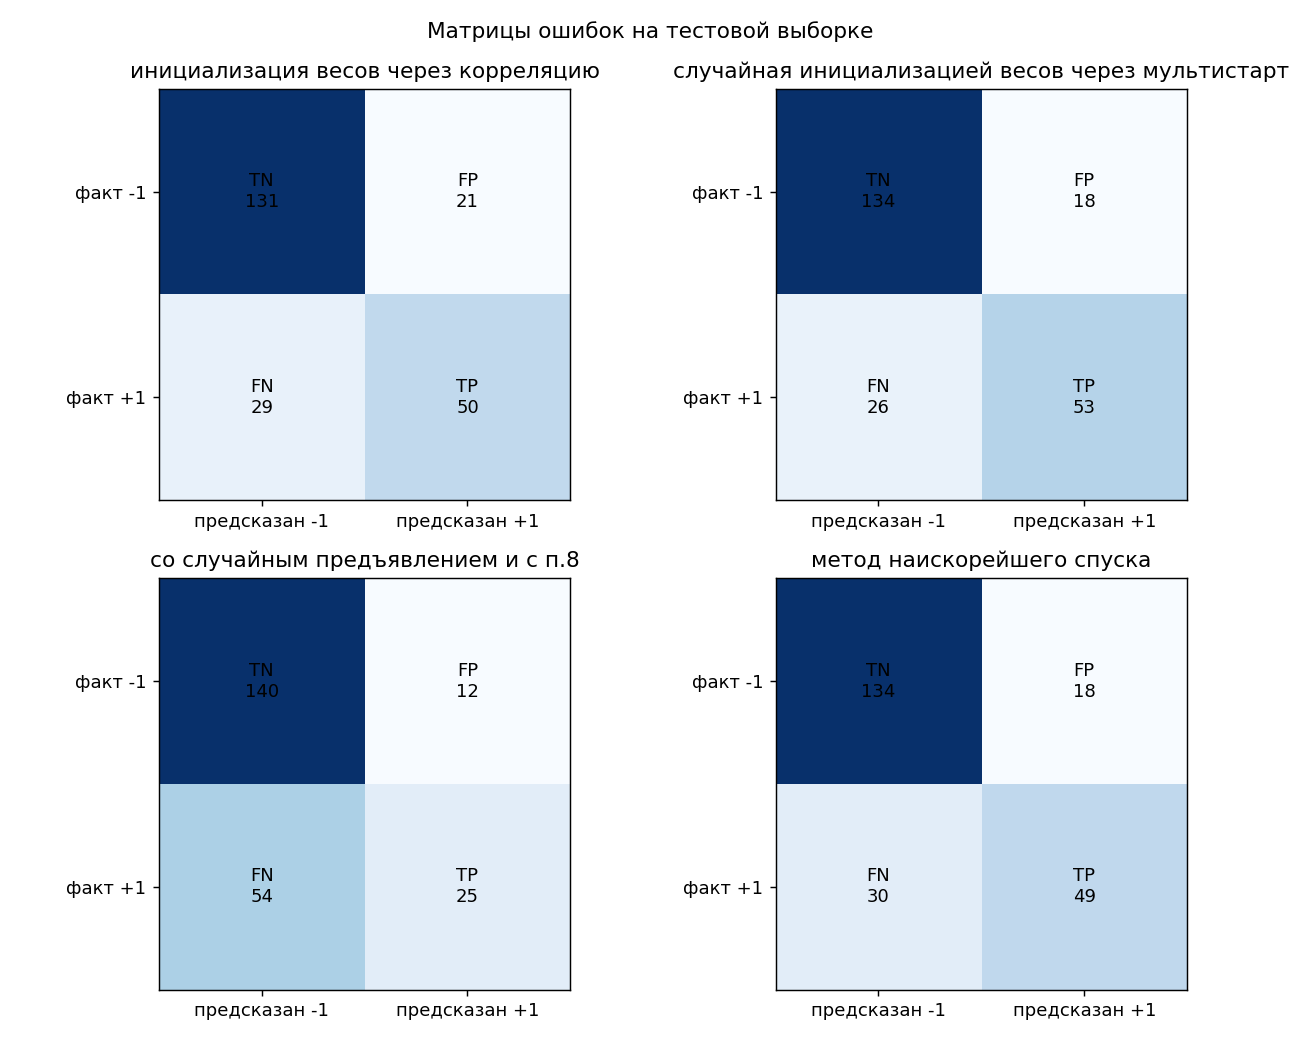
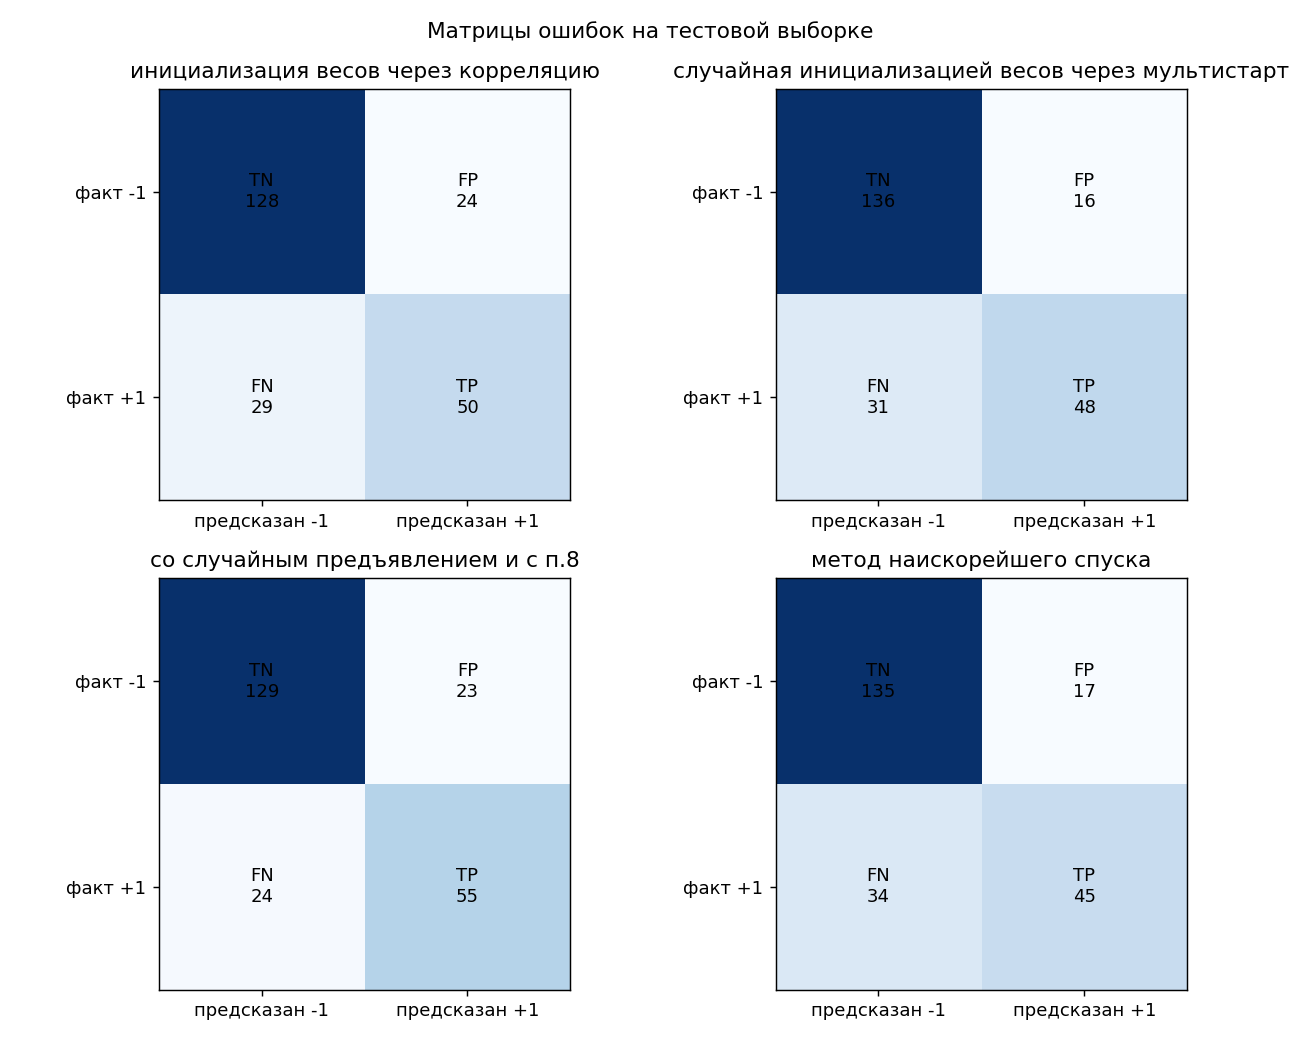
1. Изменение функции лосса на log2
2. Немного переписал загрузку датасета

Changed region(s): [[0.1231, 0.7385, 0.4615, 0.9538], [0.3385, 0.6462, 0.3692, 0.6769]]

diff --git a/students/churyumov-bv/lab1/source/main.py b/students/churyumov-bv/lab1/source/main.py
@@ -17,15 +17,12 @@
 
 """
 
-import io
-import json
 import os
-import zipfile
 import numpy as np
 import pandas as pd
-import requests
 import matplotlib.pyplot as plt
 from matplotlib.patches import Patch
+from sklearn.datasets import fetch_openml
 from sklearn.model_selection import train_test_split
 from sklearn.metrics import roc_curve, auc
 
@@ -35,53 +32,21 @@ rng = np.random.default_rng(RANDOM_STATE)
 OUTPUT_DIR = os.path.join(os.path.dirname(os.path.abspath(__file__)), "../output")
 os.makedirs(OUTPUT_DIR, exist_ok=True)
 
-KAGGLE_DATASET = "uciml/pima-indians-diabetes-database"
-KAGGLE_FILE = "diabetes.csv"
-DATA_DIR = os.path.normpath(os.path.join(os.path.dirname(os.path.abspath(__file__)), ".."))
-DATA_PATH = os.path.join(DATA_DIR, KAGGLE_FILE)
-
-
-def _kaggle_auth():
-    user = os.environ.get("KAGGLE_USERNAME")
-    key = os.environ.get("KAGGLE_KEY")
-    if user and key:
-        return user, key
-    with open(os.path.expanduser("~/.kaggle/kaggle.json")) as f:
-        creds = json.load(f)
-    return creds["username"], creds["key"]
-
-
-def download_dataset():
-    url = f"https://www.kaggle.com/api/v1/datasets/download/{KAGGLE_DATASET}"
-    resp = requests.get(url, auth=_kaggle_auth())
-    resp.raise_for_status()
-    with zipfile.ZipFile(io.BytesIO(resp.content)) as zf:
-        zf.extract(KAGGLE_FILE, DATA_DIR)
-
-
 # выбрать датасет для классификации, например на [kaggle]
 def load_data() -> pd.DataFrame:
-    if not os.path.exists(DATA_PATH):
-        download_dataset()
-
-    df = pd.read_csv(DATA_PATH)
-    df.columns = [c.strip().lower() for c in df.columns]
-    return df
+    return fetch_openml(data_id=37, as_frame=True, parser="auto", n_retries=5).frame
 
 
 def prepare_data(df: pd.DataFrame, test_size: float = 0.3):
     df = df.copy()
-
-    zeros = ["glucose", "bloodpressure", "skinthickness", "insulin", "bmi"]
+    zeros = ["plas", "pres", "skin", "insu", "mass"]
     for col in zeros:
         df[col] = df[col].replace(0, np.nan)
         df[col] = df[col].fillna(df[col].median())
 
-    feature_cols = ["pregnancies", "glucose", "bloodpressure", "skinthickness",
-                     "insulin", "bmi", "diabetespedigreefunction", "age"]
+    feature_cols = ["preg", "plas", "pres", "skin", "insu", "mass", "pedi", "age"]
     X = df[feature_cols].to_numpy(dtype=float)
-    y = df["outcome"].to_numpy(dtype=float)
-    y = np.where(y > 0, 1.0, -1.0)  # {0,1} -> {-1,+1}
+    y = np.where(df["class"] == "tested_positive", 1.0, -1.0)
 
     mu, sigma = X.mean(axis=0), X.std(axis=0)
     sigma[sigma == 0] = 1.0
@@ -148,19 +113,19 @@ def _stable_sigmoid(z: np.ndarray) -> np.ndarray:
 
 
 def loss(M: np.ndarray) -> np.ndarray:
-    return np.log1p(np.exp(-np.abs(M))) + np.maximum(-M, 0)
+    return (np.log1p(np.exp(-np.abs(M))) + np.maximum(-M, 0)) / np.log(2)
 
 
 def loss_derivative(M: np.ndarray) -> np.ndarray:
-    return -_stable_sigmoid(-M)
+    return -_stable_sigmoid(-M) / np.log(2)
 
 
 def gradient(w: np.ndarray, X: np.ndarray, y: np.ndarray, l2: float = 0.0) -> np.ndarray:
     M = margin(w, X, y)
-    dL_dM = loss_derivative(M)          # (n,)
-    grad_per_obj = X * (dL_dM * y)[:, None]  # (n, d), dM/dw = y_i * x_i
+    dL_dM = loss_derivative(M)
+    grad_per_obj = X * (dL_dM * y)[:, None]
     grad = grad_per_obj.mean(axis=0)
-    grad[1:] += l2 * w[1:]              # bias (w[0]) не регуляризуем
+    grad[1:] += l2 * w[1:]
     return grad
 
 # 4. реализовать рекуррентную оценку функционала качества;
@@ -188,7 +153,7 @@ def margin_based_sampling_probs(w: np.ndarray, X: np.ndarray, y: np.ndarray,
 def sgd_momentum(X, y, w0, n_iter=4000, eta=0.05, gamma=0.9, l2=0.01,
                   lam_Q=0.01, sampling="uniform"):
     w = w0.copy()
-    v = np.zeros_like(w)  # "инерция" (momentum)
+    v = np.zeros_like(w)
     Q = init_Q(w, X, y)
     Q_history = [Q]
     n = X.shape[0]
@@ -197,7 +162,6 @@ def sgd_momentum(X, y, w0, n_iter=4000, eta=0.05, gamma=0.9, l2=0.01,
         if sampling == "uniform":
             i = rng.integers(0, n)
         elif sampling == "margin_based":
-            # пересчитывать веса на каждом шаге дорого, обновляем раз в K шагов
             if t % 50 == 0:
                 probs = margin_based_sampling_probs(w, X, y)
             i = rng.choice(n, p=probs)
@@ -246,7 +210,7 @@ def steepest_descent(X, y, w0, n_iter=200, l2=0.01, eta_max=5.0):
 # 9.1 обучить с инициализацией весов через корреляцию;
 def correlation_init(X, y):
     w = np.zeros(X.shape[1])
-    for j in range(1, X.shape[1]):  # пропускаем bias-столбец (j=0)
+    for j in range(1, X.shape[1]):
         xj = X[:, j]
         denom = xj @ xj
         w[j] = (xj @ y) / denom if denom > 0 else 0.0
@@ -255,8 +219,6 @@ def correlation_init(X, y):
 
 # 9.2 обучить со случайной инициализацией весов через мультистарт;
 def multistart(X, y, n_starts, train_fn, **train_kwargs):
-    """Запускаем обучение n_starts раз со случайными начальными весами,
-    выбираем лучший результат по итоговому Q на обучающей выборке."""
     best_w, best_Q, best_hist = None, np.inf, None
     d = X.shape[1]
     for s in range(n_starts):
@@ -327,7 +289,7 @@ def plot_roc_curves(models: dict, X: np.ndarray, y: np.ndarray, title: str, path
 # 11. сравнить лучшую реализацию с эталонной;
 def reference_model(X_train, y_train, X_test, y_test, l2):
     from sklearn.linear_model import SGDClassifier
-    clf = SGDClassifier(loss="log_loss", penalty="l2", alpha=l2,
+    clf = SGDClassifier(loss="log_loss", penalty="l2", alpha=l2 * np.log(2),
                          max_iter=2000, random_state=RANDOM_STATE)
     clf.fit(X_train[:, 1:], y_train)
     y_pred = clf.predict(X_test[:, 1:])
@@ -353,7 +315,7 @@ if __name__ == "__main__":
     w_rand = rng.normal(0, 0.1, size=d)
     plot_margins(
         margin(w_rand, X_train, y_train), 
-        "Отступы со случайными весами (до обучения)",
+        "Отступы со случайными весами до обучения",
         os.path.join(OUTPUT_DIR, "margins_before.png")
     )
 

diff --git a/students/churyumov-bv/lab1/README.md b/students/churyumov-bv/lab1/README.md
@@ -1,37 +1,35 @@
 ## 1. Датасет
 
+Pima Indians Diabetes (768 объектов, 8 числовых признаков, 2 класса). Загружается из OpenML (`data_id=37`) через `sklearn.datasets.fetch_openml`, без Kaggle API; sklearn кэширует датасет локально. Колонки используются под именами OpenML: `preg`, `plas`, `pres`, `skin`, `insu`, `mass`, `pedi`, `age`, метка — `class`.
+
+В признаках `plas`, `pres`, `skin`, `insu`, `mass` нулевое значение означает пропуск: оно заменяется медианой по столбцу. Признаки стандартизуются, метки переводятся в {-1, +1}, выборка делится на обучающую и тестовую (70/30, без перемешивания), к матрицам добавляется столбец смещения.
+
 ```python
-KAGGLE_DATASET = "uciml/pima-indians-diabetes-database"
-KAGGLE_FILE = "diabetes.csv"
-DATA_DIR = os.path.normpath(os.path.join(os.path.dirname(os.path.abspath(__file__)), ".."))
-DATA_PATH = os.path.join(DATA_DIR, KAGGLE_FILE)
-
-
-def _kaggle_auth():
-    user = os.environ.get("KAGGLE_USERNAME")
-    key = os.environ.get("KAGGLE_KEY")
-    if user and key:
-        return user, key
-    with open(os.path.expanduser("~/.kaggle/kaggle.json")) as f:
-        creds = json.load(f)
-    return creds["username"], creds["key"]
-
-
-def download_dataset():
-    url = f"https://www.kaggle.com/api/v1/datasets/download/{KAGGLE_DATASET}"
-    resp = requests.get(url, auth=_kaggle_auth())
-    resp.raise_for_status()
-    with zipfile.ZipFile(io.BytesIO(resp.content)) as zf:
-        zf.extract(KAGGLE_FILE, DATA_DIR)
-
-
 def load_data() -> pd.DataFrame:
-    if not os.path.exists(DATA_PATH):
-        download_dataset()
+    return fetch_openml(data_id=37, as_frame=True, parser="auto", n_retries=5).frame
 
-    df = pd.read_csv(DATA_PATH)
-    df.columns = [c.strip().lower() for c in df.columns]
-    return df
+def prepare_data(df: pd.DataFrame, test_size: float = 0.3):
+    df = df.copy()
+    zeros = ["plas", "pres", "skin", "insu", "mass"]
+    for col in zeros:
+        df[col] = df[col].replace(0, np.nan)
+        df[col] = df[col].fillna(df[col].median())
+
+    feature_cols = ["preg", "plas", "pres", "skin", "insu", "mass", "pedi", "age"]
+    X = df[feature_cols].to_numpy(dtype=float)
+    y = np.where(df["class"] == "tested_positive", 1.0, -1.0)
+
+    mu, sigma = X.mean(axis=0), X.std(axis=0)
+    sigma[sigma == 0] = 1.0
+    X = (X - mu) / sigma
+    X_train, X_test, y_train, y_test = train_test_split(
+        X, y, test_size=test_size, shuffle=False
+    )
+
+    def add_bias(X):
+        return np.hstack([np.ones((X.shape[0], 1)), X])
+
+    return add_bias(X_train), y_train, add_bias(X_test), y_test, feature_cols
 ```
 
 ## 2. Отступ объекта
@@ -82,6 +80,8 @@ def plot_margins(M: np.ndarray, title: str, path: str):
 
 ## 3. Градиент функции потерь
 
+Функция потерь — логистическая, нормированная на ln 2: L(M) = log₂(1 + e^(−M)). Она мажорирует пороговую функцию потерь [M < 0].
+
 ```python
 def _stable_sigmoid(z: np.ndarray) -> np.ndarray:
     out = np.empty_like(z)
@@ -91,14 +91,11 @@ def _stable_sigmoid(z: np.ndarray) -> np.ndarray:
     out[~pos] = ez / (1.0 + ez)
     return out
 
-
 def loss(M: np.ndarray) -> np.ndarray:
-    return np.log1p(np.exp(-np.abs(M))) + np.maximum(-M, 0)
-
+    return (np.log1p(np.exp(-np.abs(M))) + np.maximum(-M, 0)) / np.log(2)
 
 def loss_derivative(M: np.ndarray) -> np.ndarray:
-    return -_stable_sigmoid(-M)
-
+    return -_stable_sigmoid(-M) / np.log(2)
 
 def gradient(w: np.ndarray, X: np.ndarray, y: np.ndarray, l2: float = 0.0) -> np.ndarray:
     M = margin(w, X, y)
@@ -113,13 +110,12 @@ def gradient(w: np.ndarray, X: np.ndarray, y: np.ndarray, l2: float = 0.0) -> np
 
 ```python
 def init_Q(w: np.ndarray, X: np.ndarray, y: np.ndarray) -> float:
+
     M = margin(w, X, y)
     return float(loss(M).mean())
 
-
 def update_Q(Q_prev: float, loss_i: float, lam: float) -> float:
     return lam * loss_i + (1 - lam) * Q_prev
-
 
 def full_Q(w, X, y, l2):
     M = margin(w, X, y)
@@ -162,6 +158,8 @@ def sgd_momentum(X, y, w0, n_iter=4000, eta=0.05, gamma=0.9, l2=0.01,
 
 ## 6. L2-регуляризация
 
+Смещение `w[0]` не регуляризуется.
+
 ```python
 grad[1:] += l2 * w[1:]
 ```
@@ -182,7 +180,6 @@ def backtracking_line_search(f, f0, g, eta0=5.0, shrink=0.5, c1=1e-4, max_steps=
         eta *= shrink
     return eta
 
-
 def steepest_descent(X, y, w0, n_iter=200, l2=0.01, eta_max=5.0):
     w = w0.copy()
     Q_history = [full_Q(w, X, y, l2)]
@@ -198,6 +195,14 @@ def steepest_descent(X, y, w0, n_iter=200, l2=0.01, eta_max=5.0):
         Q_history.append(full_Q(w, X, y, l2))
     return w, np.array(Q_history)
 ```
+
+```python
+w_steepest, hist_steep = steepest_descent(X_train, y_train, w0_rand, l2=l2)
+```
+
+| train | test |
+|---|---|
+| ![](output/margins_train_метод_наискорейшего_спуска.png) | ![](output/margins_test_метод_наискорейшего_спуска.png) |
 
 ## 8. Предъявление объектов по модулю отступа
 
@@ -268,13 +273,6 @@ w_margin_based, hist_mb = sgd_momentum(X_train, y_train, w0_rand, l2=l2, samplin
 
 ### Кривые обучения
 
-```python
-plt.plot(hist_corr, label="инициализация весов через корреляцию")
-plt.plot(hist_mb, label="со случайным предъявлением и с п.8")
-plt.plot(hist_steep, label="метод наискорейшего спуска")
-plt.title("Кривые обучения")
-```
-
 ![](output/convergence.png)
 
 ## 10. Оценка качества классификации
@@ -298,6 +296,26 @@ def evaluate(w, X, y):
 ```
 
 ```python
+def plot_confusion_matrices(reports, path):
+    fig, axes = plt.subplots(2, 2, figsize=(10, 8))
+    labels = ["TN", "FP", "FN", "TP"]
+
+    for ax, (name, metrics) in zip(axes.flat, reports.items()):
+        cm = metrics["confusion_matrix"]
+        ax.imshow(cm, cmap="Blues")
+        ax.set_title(name)
+        ax.set_xticks([0, 1], ["предсказан -1", "предсказан +1"])
+        ax.set_yticks([0, 1], ["факт -1", "факт +1"])
+        for row in range(2):
+            for col in range(2):
+                ax.text(col, row, f"{labels[row * 2 + col]}\n{cm[row, col]}",
+                        ha="center", va="center", color="black")
+
+    fig.suptitle("Матрицы ошибок на тестовой выборке")
+    fig.tight_layout()
+    fig.savefig(path, dpi=130)
+    plt.close(fig)
+
 def plot_roc_curves(models: dict, X: np.ndarray, y: np.ndarray, title: str, path: str):
     plt.figure(figsize=(6.5, 6))
     for name, w in models.items():
@@ -321,19 +339,23 @@ def plot_roc_curves(models: dict, X: np.ndarray, y: np.ndarray, title: str, path
 |---|---|
 | ![](output/roc_curves_train.png) | ![](output/roc_curves_test.png) |
 
+Метрики на тестовой выборке:
+
 | method | accuracy | precision | recall | f1 |
 |---|---|---|---|---|
-| инициализация весов через корреляцию | 0.7835 | 0.7042 | 0.6329 | 0.6667 |
-| случайная инициализацией весов через мультистарт | 0.8095 | 0.7465 | 0.6709 | 0.7067 |
-| со случайным предъявлением и с п.8 | 0.7143 | 0.6757 | 0.3165 | 0.4310 |
-| метод наискорейшего спуска | 0.7922 | 0.7313 | 0.6203 | 0.6712 |
+| инициализация весов через корреляцию | 0.7706 | 0.6757 | 0.6329 | 0.6536 |
+| случайная инициализацией весов через мультистарт | 0.7965 | 0.7500 | 0.6076 | 0.6713 |
+| со случайным предъявлением и с п.8 | 0.7965 | 0.7051 | 0.6962 | 0.7006 |
+| метод наискорейшего спуска | 0.7792 | 0.7258 | 0.5696 | 0.6383 |
 
 ## 11. Сравнение с эталонной реализацией
+
+Эталон — `sklearn.linear_model.SGDClassifier` с логистической потерей. Так как собственная потеря нормирована на ln 2, коэффициент регуляризации эталона взят как `l2 * ln 2`: тогда функционалы отличаются лишь общим множителем ln 2 и имеют один и тот же минимум.
 
 ```python
 def reference_model(X_train, y_train, X_test, y_test, l2):
     from sklearn.linear_model import SGDClassifier
-    clf = SGDClassifier(loss="log_loss", penalty="l2", alpha=l2,
+    clf = SGDClassifier(loss="log_loss", penalty="l2", alpha=l2 * np.log(2),
                          max_iter=2000, random_state=RANDOM_STATE)
     clf.fit(X_train[:, 1:], y_train)
     y_pred = clf.predict(X_test[:, 1:])
@@ -351,7 +373,7 @@ def reference_model(X_train, y_train, X_test, y_test, l2):
 
 | method | accuracy | precision | recall | f1 |
 |---|---|---|---|---|
-| sklearn SGDClassifier | 0.8009 | 0.7391 | 0.6456 | 0.6892 |
+| sklearn SGDClassifier | 0.7835 | 0.7302 | 0.5823 | 0.6479 |
 
 ## 12. Отчёт
 
